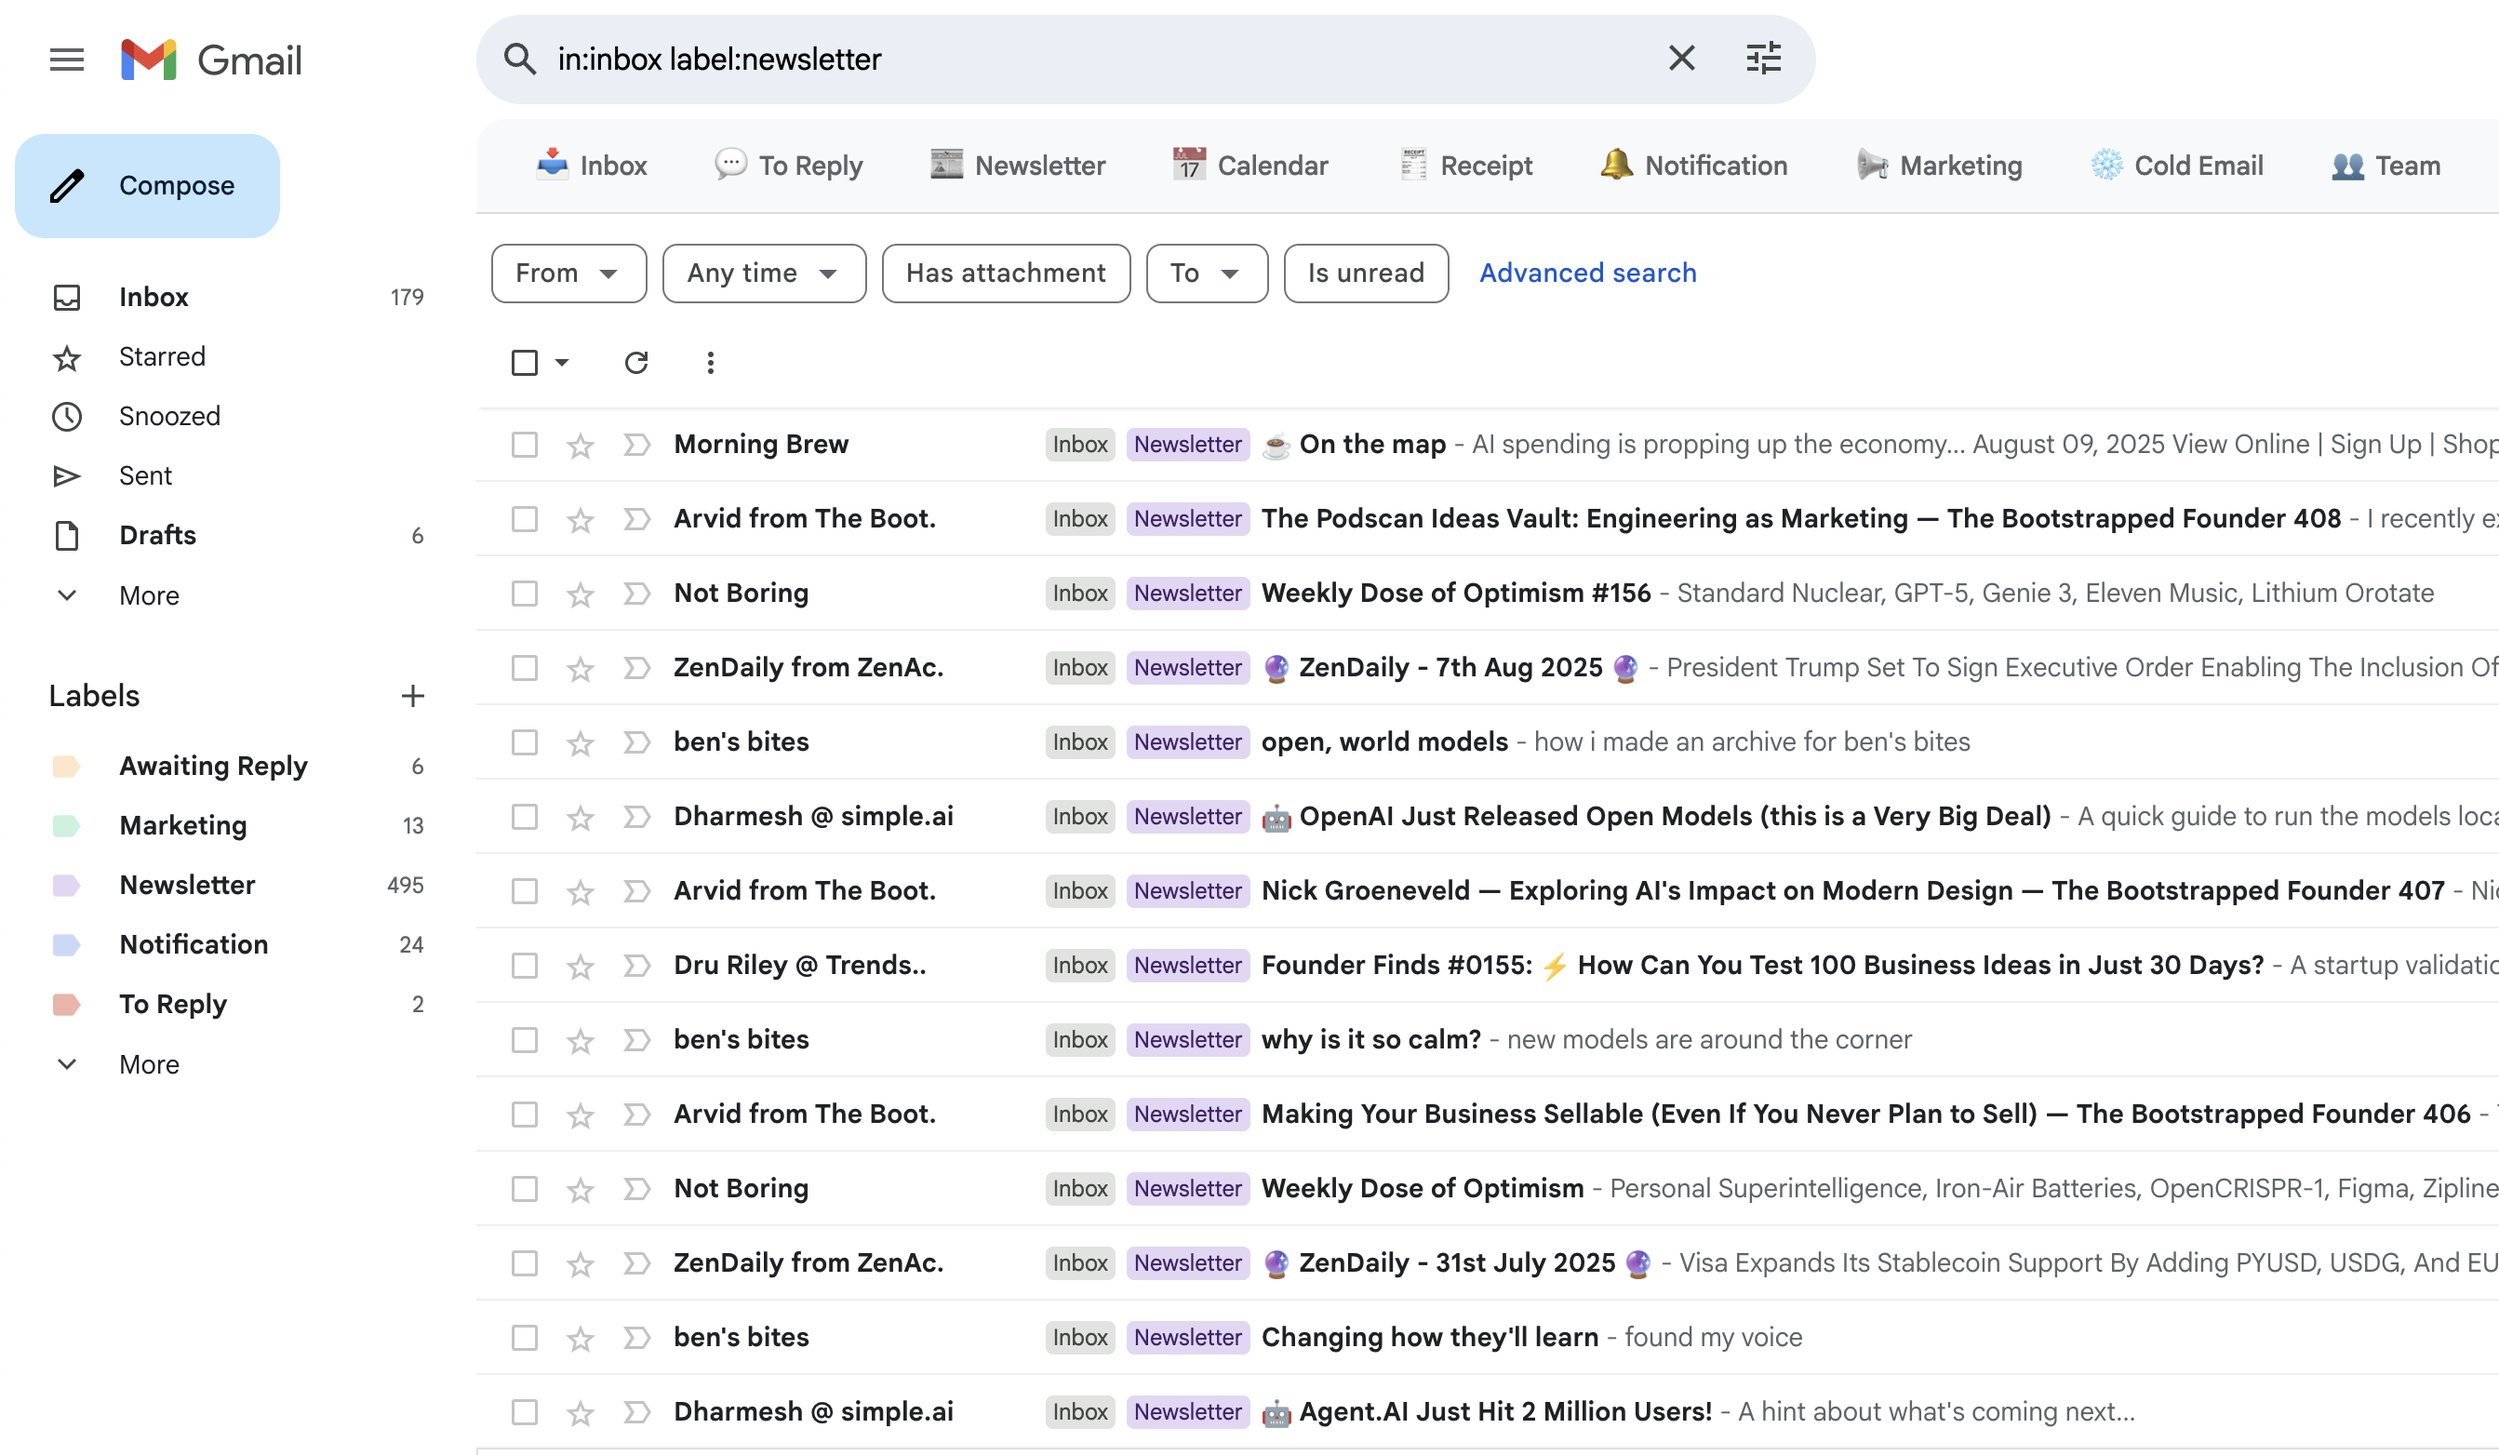
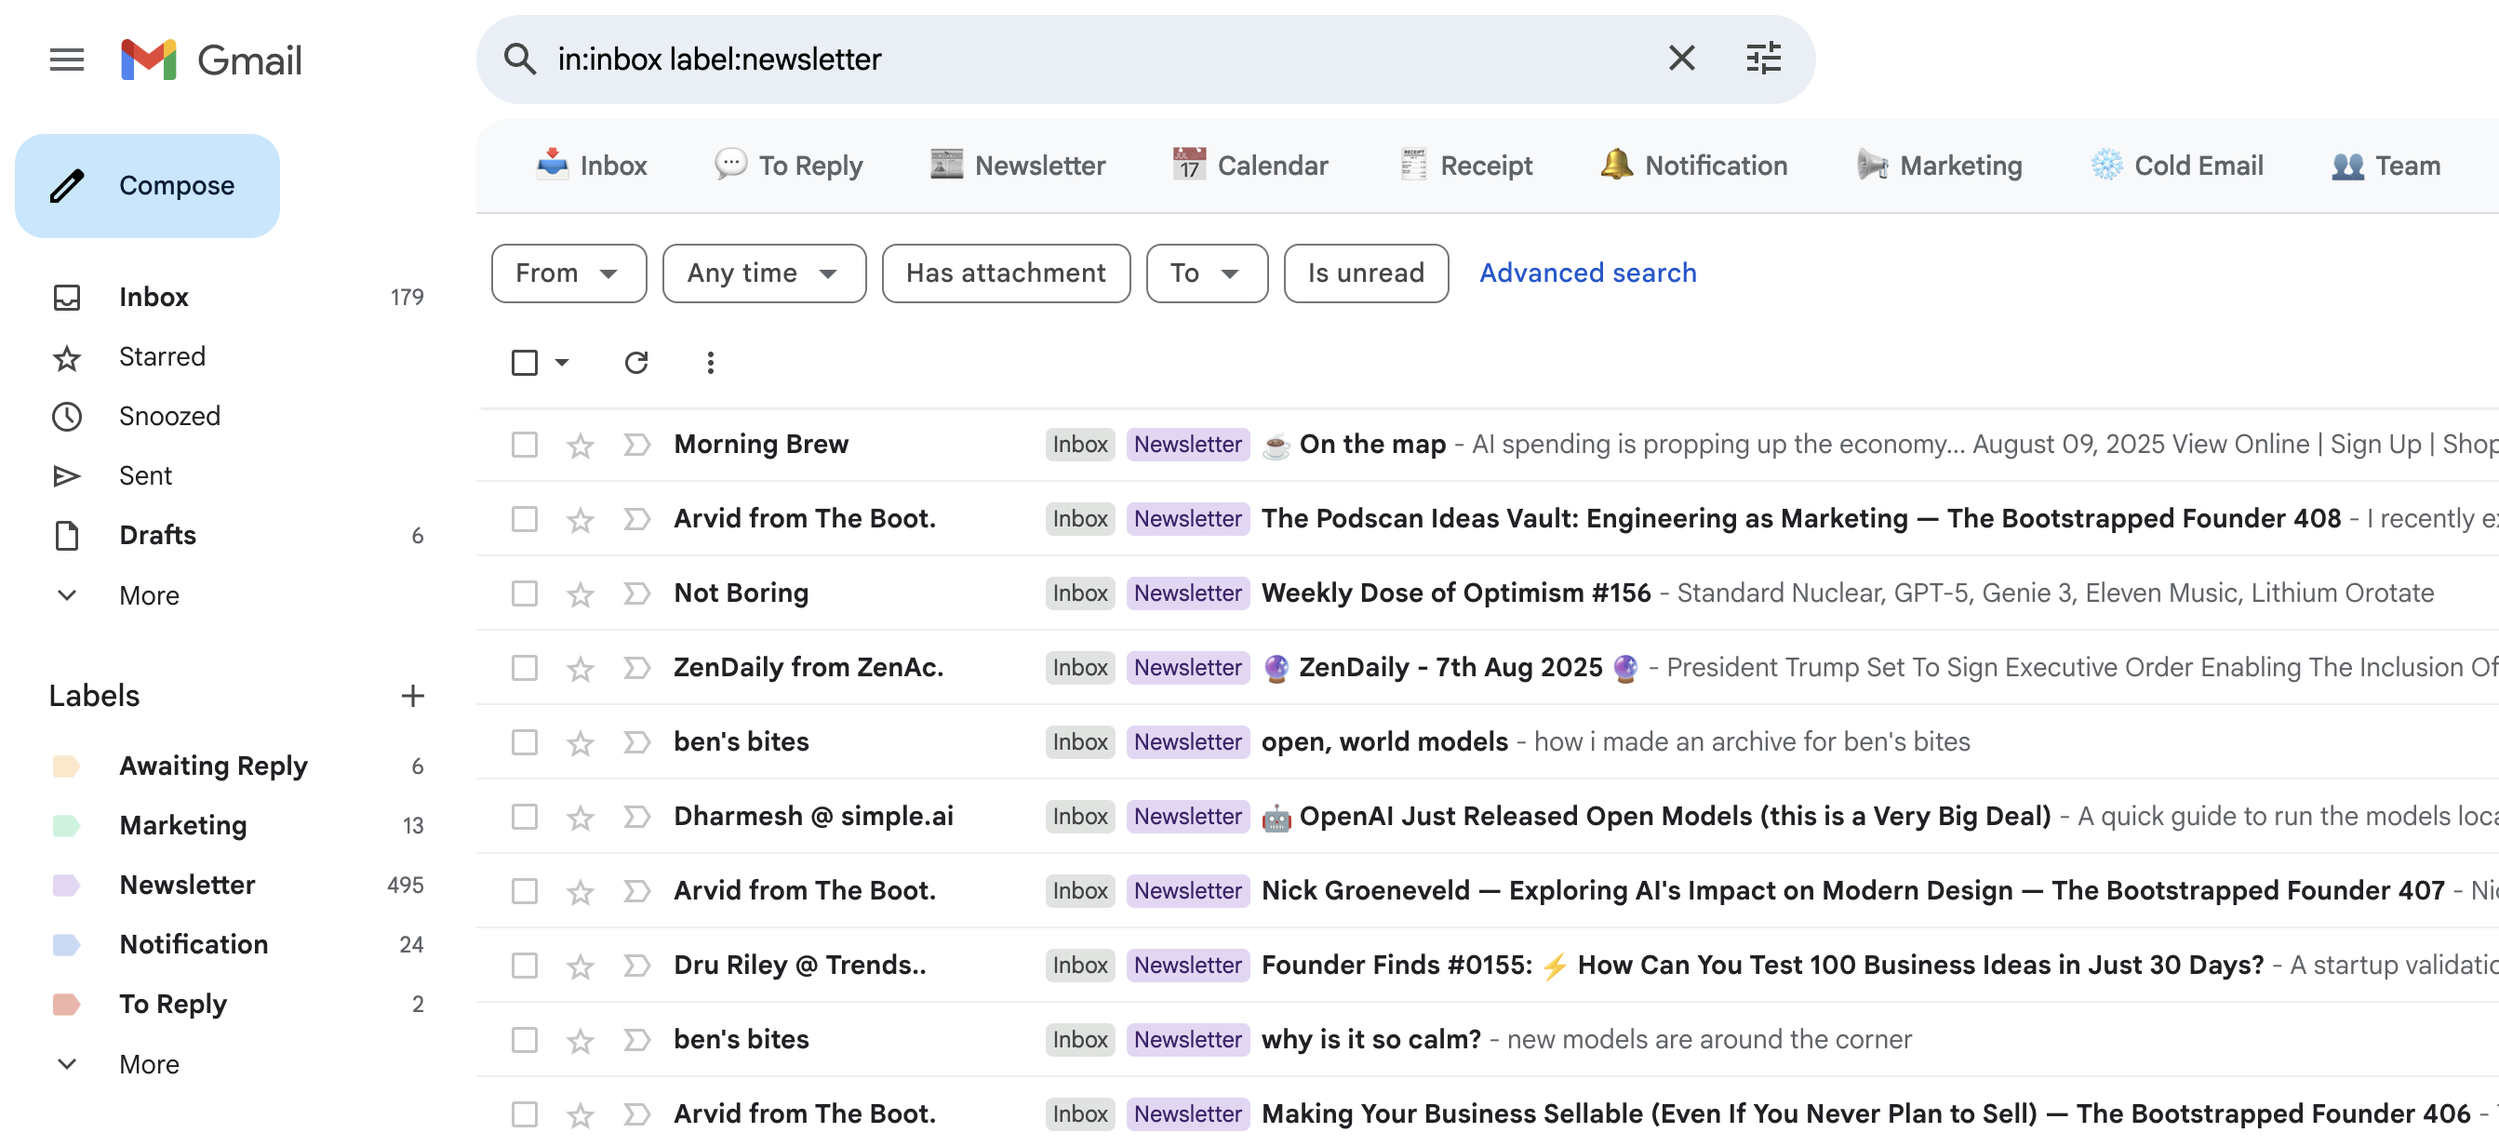
adjust images

diff --git a/apps/web/app/(app)/[emailAccountId]/onboarding/StepIntro.tsx b/apps/web/app/(app)/[emailAccountId]/onboarding/StepIntro.tsx
@@ -28,7 +28,7 @@ export function StepIntro({ onNext }: { onNext: () => void }) {
             index={1}
             title="Emails sorted automatically"
             description="Emails are automatically organized into categories like 'To Reply', 'Newsletters', and 'Cold Emails'. You can create any categories you want."
-            image="/images/onboarding/newsletters.png"
+            image="/images/onboarding/newsletters.png?v=2"
           />
           <Benefit
             index={2}
@@ -69,7 +69,7 @@ function Benefit({
   image: string;
 }) {
   return (
-    <CardBasic className="rounded-2xl shadow-none grid grid-cols-5 p-0 pl-4 pt-4 gap-8 h-[400px]">
+    <CardBasic className="rounded-2xl shadow-none grid grid-cols-5 p-0 pl-4 pt-4 gap-8 max-h-[400px]">
       <div className="flex items-center gap-4 col-span-2">
         <IconCircle>{index}</IconCircle>
         <div>
